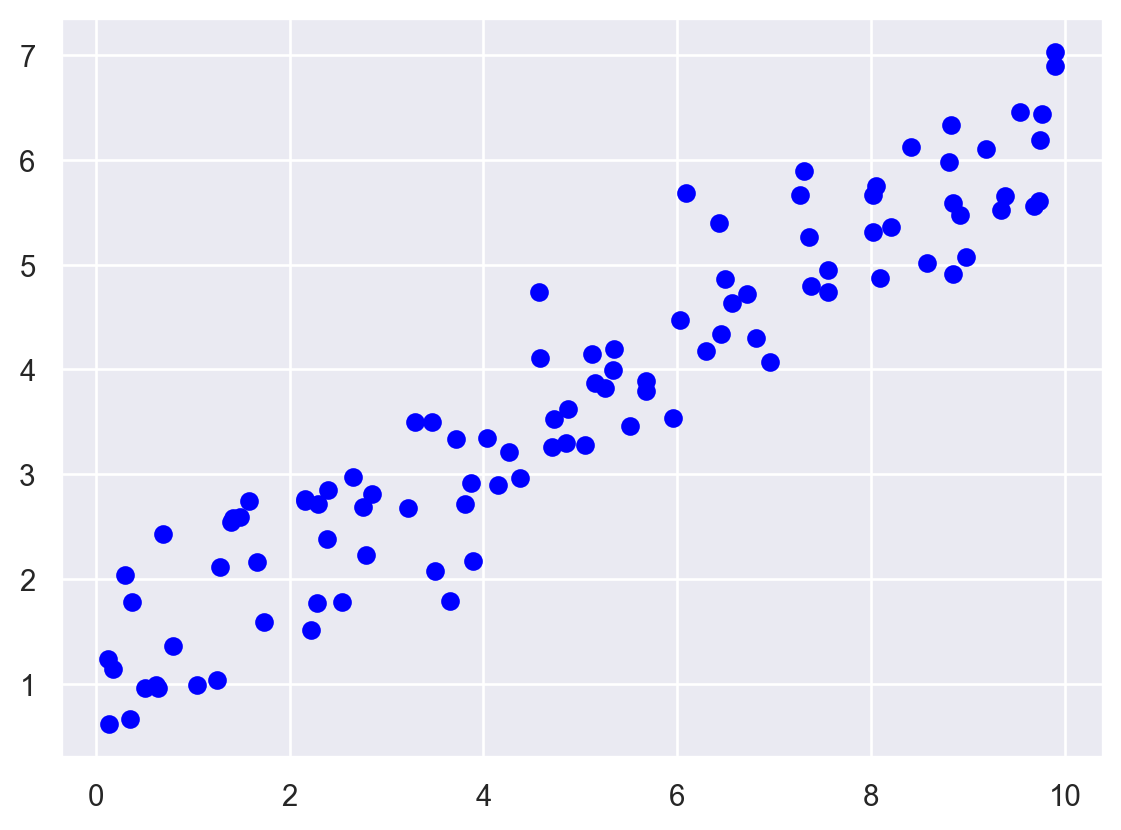
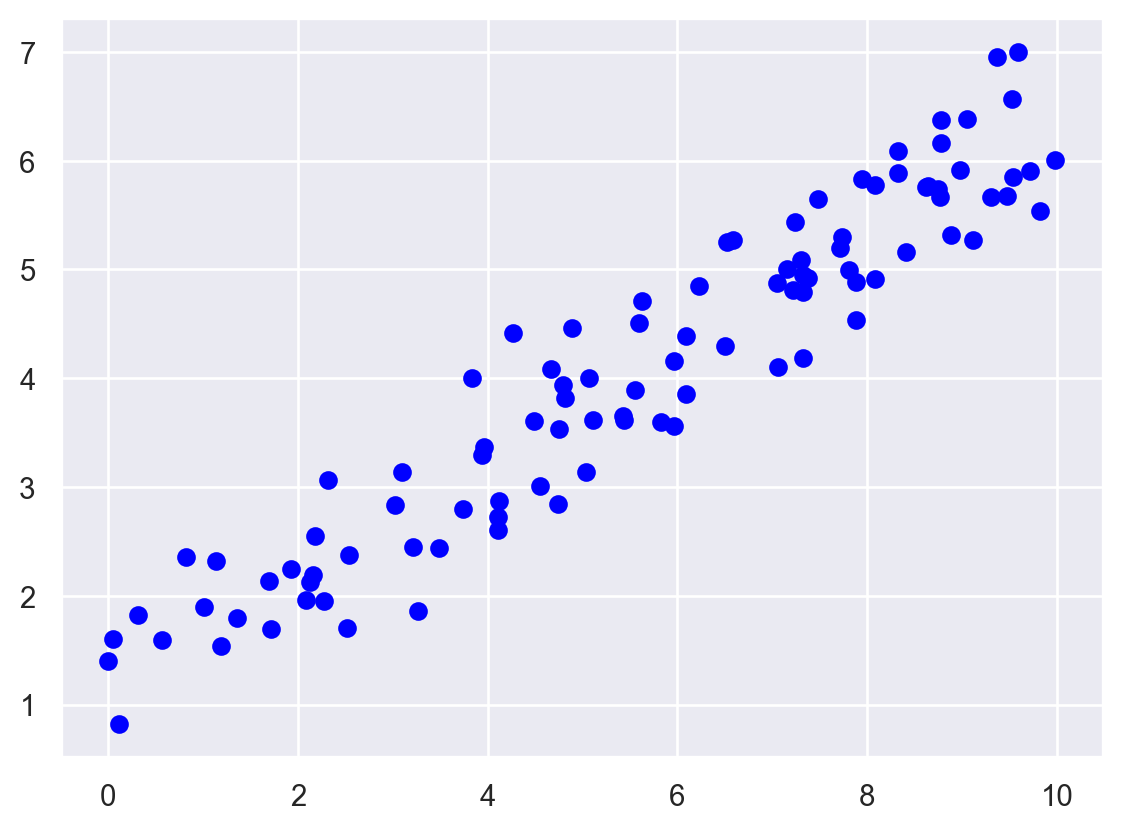
add line numbers to code blocks in new blog post"
"

a
asd

diff --git a/docs/posts/2024-09-30-conditional-probs-partial-evals/index.html b/docs/posts/2024-09-30-conditional-probs-partial-evals/index.html
@@ -277,37 +277,29 @@ window.Quarto = {
 L(\beta_0, \beta_1 ; x) &amp;= \prod_{i = 1}^n P(y_i) \\
 &amp;= \prod_{i = 1}^n \frac{1}{\sqrt{2 \pi \cdot0.52^2}} e^{-\frac{(y_i - (\beta_0 + \beta_1 x_i))^2}{2 \cdot 0.5^2}}
 \end{align}\]</span> Here’s a simulated data set from this model.</p>
-<div id="d547b59b" class="cell" data-execution_count="1">
-<div class="sourceCode cell-code" id="cb1"><pre class="sourceCode python code-with-copy"><code class="sourceCode python"><span id="cb1-1"><a href="#cb1-1" aria-hidden="true" tabindex="-1"></a><span class="im">import</span> numpy <span class="im">as</span> np </span>
-<span id="cb1-2"><a href="#cb1-2" aria-hidden="true" tabindex="-1"></a><span class="im">import</span> matplotlib.pyplot <span class="im">as</span> plt</span>
-<span id="cb1-3"><a href="#cb1-3" aria-hidden="true" tabindex="-1"></a><span class="im">import</span> seaborn <span class="im">as</span> sns </span>
-<span id="cb1-4"><a href="#cb1-4" aria-hidden="true" tabindex="-1"></a><span class="im">import</span> scipy <span class="im">as</span> sp</span>
-<span id="cb1-5"><a href="#cb1-5" aria-hidden="true" tabindex="-1"></a></span>
-<span id="cb1-6"><a href="#cb1-6" aria-hidden="true" tabindex="-1"></a>sns.<span class="bu">set</span>(palette<span class="op">=</span> <span class="st">'dark'</span>)</span></code><button title="Copy to Clipboard" class="code-copy-button"><i class="bi"></i></button></pre></div>
+<div id="d3791362" class="cell" data-execution_count="2">
+<div class="sourceCode cell-code" id="cb1"><pre class="sourceCode python code-with-copy"><code class="sourceCode python"><span id="cb1-1"><a href="#cb1-1" aria-hidden="true" tabindex="-1"></a><span class="co"># parameter values </span></span>
+<span id="cb1-2"><a href="#cb1-2" aria-hidden="true" tabindex="-1"></a>beta0 <span class="op">=</span> <span class="fl">1.2</span></span>
+<span id="cb1-3"><a href="#cb1-3" aria-hidden="true" tabindex="-1"></a>beta1 <span class="op">=</span> <span class="fl">0.5</span></span>
+<span id="cb1-4"><a href="#cb1-4" aria-hidden="true" tabindex="-1"></a></span>
+<span id="cb1-5"><a href="#cb1-5" aria-hidden="true" tabindex="-1"></a><span class="co"># random x values</span></span>
+<span id="cb1-6"><a href="#cb1-6" aria-hidden="true" tabindex="-1"></a>x <span class="op">=</span> np.random.uniform(</span>
+<span id="cb1-7"><a href="#cb1-7" aria-hidden="true" tabindex="-1"></a>    low <span class="op">=</span> <span class="fl">0.0</span>, </span>
+<span id="cb1-8"><a href="#cb1-8" aria-hidden="true" tabindex="-1"></a>    high <span class="op">=</span> <span class="fl">10.0</span>,</span>
+<span id="cb1-9"><a href="#cb1-9" aria-hidden="true" tabindex="-1"></a>    size <span class="op">=</span> <span class="dv">100</span>,</span>
+<span id="cb1-10"><a href="#cb1-10" aria-hidden="true" tabindex="-1"></a>    )</span>
+<span id="cb1-11"><a href="#cb1-11" aria-hidden="true" tabindex="-1"></a><span class="co"># evaluate mean</span></span>
+<span id="cb1-12"><a href="#cb1-12" aria-hidden="true" tabindex="-1"></a>mu <span class="op">=</span> beta0 <span class="op">+</span> beta1<span class="op">*</span>x</span>
+<span id="cb1-13"><a href="#cb1-13" aria-hidden="true" tabindex="-1"></a><span class="co"># simulate y values </span></span>
+<span id="cb1-14"><a href="#cb1-14" aria-hidden="true" tabindex="-1"></a>y <span class="op">=</span> np.random.normal(</span>
+<span id="cb1-15"><a href="#cb1-15" aria-hidden="true" tabindex="-1"></a>    loc <span class="op">=</span> mu,</span>
+<span id="cb1-16"><a href="#cb1-16" aria-hidden="true" tabindex="-1"></a>    scale <span class="op">=</span> <span class="fl">0.5</span>, </span>
+<span id="cb1-17"><a href="#cb1-17" aria-hidden="true" tabindex="-1"></a>    size <span class="op">=</span> <span class="dv">100</span></span>
+<span id="cb1-18"><a href="#cb1-18" aria-hidden="true" tabindex="-1"></a>    )</span></code><button title="Copy to Clipboard" class="code-copy-button"><i class="bi"></i></button></pre></div>
 </div>
-<div id="9b86002a" class="cell" data-execution_count="2">
-<div class="sourceCode cell-code" id="cb2"><pre class="sourceCode python code-with-copy"><code class="sourceCode python"><span id="cb2-1"><a href="#cb2-1" aria-hidden="true" tabindex="-1"></a><span class="co"># parameter values </span></span>
-<span id="cb2-2"><a href="#cb2-2" aria-hidden="true" tabindex="-1"></a>beta0 <span class="op">=</span> <span class="fl">1.2</span></span>
-<span id="cb2-3"><a href="#cb2-3" aria-hidden="true" tabindex="-1"></a>beta1 <span class="op">=</span> <span class="fl">0.5</span></span>
-<span id="cb2-4"><a href="#cb2-4" aria-hidden="true" tabindex="-1"></a></span>
-<span id="cb2-5"><a href="#cb2-5" aria-hidden="true" tabindex="-1"></a><span class="co"># random x values</span></span>
-<span id="cb2-6"><a href="#cb2-6" aria-hidden="true" tabindex="-1"></a>x <span class="op">=</span> np.random.uniform(</span>
-<span id="cb2-7"><a href="#cb2-7" aria-hidden="true" tabindex="-1"></a>    low <span class="op">=</span> <span class="fl">0.0</span>, </span>
-<span id="cb2-8"><a href="#cb2-8" aria-hidden="true" tabindex="-1"></a>    high <span class="op">=</span> <span class="fl">10.0</span>,</span>
-<span id="cb2-9"><a href="#cb2-9" aria-hidden="true" tabindex="-1"></a>    size <span class="op">=</span> <span class="dv">100</span>,</span>
-<span id="cb2-10"><a href="#cb2-10" aria-hidden="true" tabindex="-1"></a>    )</span>
-<span id="cb2-11"><a href="#cb2-11" aria-hidden="true" tabindex="-1"></a><span class="co"># evaluate mean</span></span>
-<span id="cb2-12"><a href="#cb2-12" aria-hidden="true" tabindex="-1"></a>mu <span class="op">=</span> beta0 <span class="op">+</span> beta1<span class="op">*</span>x</span>
-<span id="cb2-13"><a href="#cb2-13" aria-hidden="true" tabindex="-1"></a><span class="co"># simulate y values </span></span>
-<span id="cb2-14"><a href="#cb2-14" aria-hidden="true" tabindex="-1"></a>y <span class="op">=</span> np.random.normal(</span>
-<span id="cb2-15"><a href="#cb2-15" aria-hidden="true" tabindex="-1"></a>    loc <span class="op">=</span> mu,</span>
-<span id="cb2-16"><a href="#cb2-16" aria-hidden="true" tabindex="-1"></a>    scale <span class="op">=</span> <span class="fl">0.5</span>, </span>
-<span id="cb2-17"><a href="#cb2-17" aria-hidden="true" tabindex="-1"></a>    size <span class="op">=</span> <span class="dv">100</span></span>
-<span id="cb2-18"><a href="#cb2-18" aria-hidden="true" tabindex="-1"></a>    )</span></code><button title="Copy to Clipboard" class="code-copy-button"><i class="bi"></i></button></pre></div>
-</div>
-<div id="195f6c97" class="cell" data-execution_count="3">
-<div class="sourceCode cell-code" id="cb3"><pre class="sourceCode python code-with-copy"><code class="sourceCode python"><span id="cb3-1"><a href="#cb3-1" aria-hidden="true" tabindex="-1"></a><span class="co"># Scatter plot of the data</span></span>
-<span id="cb3-2"><a href="#cb3-2" aria-hidden="true" tabindex="-1"></a>plt.scatter(x, y, label<span class="op">=</span><span class="st">"Data points"</span>, color<span class="op">=</span><span class="st">'blue'</span>)</span></code><button title="Copy to Clipboard" class="code-copy-button"><i class="bi"></i></button></pre></div>
+<div id="a923d60b" class="cell" data-execution_count="3">
+<div class="sourceCode cell-code" id="cb2"><pre class="sourceCode python code-with-copy"><code class="sourceCode python"><span id="cb2-1"><a href="#cb2-1" aria-hidden="true" tabindex="-1"></a><span class="co"># Scatter plot of the data</span></span>
+<span id="cb2-2"><a href="#cb2-2" aria-hidden="true" tabindex="-1"></a>plt.scatter(x, y, label<span class="op">=</span><span class="st">"Data points"</span>, color<span class="op">=</span><span class="st">'blue'</span>)</span></code><button title="Copy to Clipboard" class="code-copy-button"><i class="bi"></i></button></pre></div>
 <div class="cell-output cell-output-display">
 <div>
 <figure class="figure">
@@ -321,24 +313,24 @@ L(\beta_0, \beta_1 ; x) &amp;= \prod_{i = 1}^n P(y_i) \\
 <h2 class="anchored" data-anchor-id="partial-function-evaluations">Partial Function Evaluations</h2>
 <p>In Python, partial function evaluation is a feature provided by <code>functools</code> package with the <code>partial</code> function. It allows you to take a function and fix some of its arguments, returning a new function that takes fewer arguments. The similarity to conditional probabilities lies in this idea of fixing known inputs. This is a nice feature of Python - we can pass around functions as first class objects (an entity that can be dynamically created, destroyed, passed to a function, returned as a value, and have all the rights as other variables in the programming language have).</p>
 <p>Let’s look at an example.</p>
-<div id="1b769118" class="cell" data-execution_count="4">
-<div class="sourceCode cell-code" id="cb4"><pre class="sourceCode python code-with-copy"><code class="sourceCode python"><span id="cb4-1"><a href="#cb4-1" aria-hidden="true" tabindex="-1"></a><span class="im">from</span> functools <span class="im">import</span> partial </span></code><button title="Copy to Clipboard" class="code-copy-button"><i class="bi"></i></button></pre></div>
+<div id="140a2905" class="cell" data-execution_count="4">
+<div class="sourceCode cell-code" id="cb3"><pre class="sourceCode python code-with-copy"><code class="sourceCode python"><span id="cb3-1"><a href="#cb3-1" aria-hidden="true" tabindex="-1"></a><span class="im">from</span> functools <span class="im">import</span> partial </span></code><button title="Copy to Clipboard" class="code-copy-button"><i class="bi"></i></button></pre></div>
 </div>
-<div id="550b2621" class="cell" data-execution_count="5">
-<div class="sourceCode cell-code" id="cb5"><pre class="sourceCode python code-with-copy"><code class="sourceCode python"><span id="cb5-1"><a href="#cb5-1" aria-hidden="true" tabindex="-1"></a><span class="kw">def</span> my_function(a, b):</span>
-<span id="cb5-2"><a href="#cb5-2" aria-hidden="true" tabindex="-1"></a>    <span class="co">"""</span></span>
-<span id="cb5-3"><a href="#cb5-3" aria-hidden="true" tabindex="-1"></a><span class="co">    A function that takes two arguements and returns the product</span></span>
-<span id="cb5-4"><a href="#cb5-4" aria-hidden="true" tabindex="-1"></a><span class="co">    """</span></span>
-<span id="cb5-5"><a href="#cb5-5" aria-hidden="true" tabindex="-1"></a>    <span class="cf">return</span> a<span class="op">*</span>b</span></code><button title="Copy to Clipboard" class="code-copy-button"><i class="bi"></i></button></pre></div>
+<div id="2a6ca296" class="cell" data-execution_count="5">
+<div class="sourceCode cell-code" id="cb4"><pre class="sourceCode python code-with-copy"><code class="sourceCode python"><span id="cb4-1"><a href="#cb4-1" aria-hidden="true" tabindex="-1"></a><span class="kw">def</span> my_function(a, b):</span>
+<span id="cb4-2"><a href="#cb4-2" aria-hidden="true" tabindex="-1"></a>    <span class="co">"""</span></span>
+<span id="cb4-3"><a href="#cb4-3" aria-hidden="true" tabindex="-1"></a><span class="co">    A function that takes two arguements and returns the product</span></span>
+<span id="cb4-4"><a href="#cb4-4" aria-hidden="true" tabindex="-1"></a><span class="co">    """</span></span>
+<span id="cb4-5"><a href="#cb4-5" aria-hidden="true" tabindex="-1"></a>    <span class="cf">return</span> a<span class="op">*</span>b</span></code><button title="Copy to Clipboard" class="code-copy-button"><i class="bi"></i></button></pre></div>
 </div>
 <p>We can partially evaluate the function by “fixing” one of the parameters values to a specific value. For example, fix <code>a=2</code>.</p>
-<div id="430a7eda" class="cell" data-execution_count="6">
-<div class="sourceCode cell-code" id="cb6"><pre class="sourceCode python code-with-copy"><code class="sourceCode python"><span id="cb6-1"><a href="#cb6-1" aria-hidden="true" tabindex="-1"></a>multiply_by_2 <span class="op">=</span> partial(my_function, a <span class="op">=</span> <span class="dv">2</span>)</span>
-<span id="cb6-2"><a href="#cb6-2" aria-hidden="true" tabindex="-1"></a></span>
-<span id="cb6-3"><a href="#cb6-3" aria-hidden="true" tabindex="-1"></a><span class="bu">print</span>(multiply_by_2)                        <span class="co"># this returns a function</span></span>
-<span id="cb6-4"><a href="#cb6-4" aria-hidden="true" tabindex="-1"></a><span class="bu">print</span>(multiply_by_2(b <span class="op">=</span> <span class="dv">4</span>))                 <span class="co"># this returns 8</span></span></code><button title="Copy to Clipboard" class="code-copy-button"><i class="bi"></i></button></pre></div>
+<div id="23f5297e" class="cell" data-execution_count="6">
+<div class="sourceCode cell-code" id="cb5"><pre class="sourceCode python code-with-copy"><code class="sourceCode python"><span id="cb5-1"><a href="#cb5-1" aria-hidden="true" tabindex="-1"></a>multiply_by_2 <span class="op">=</span> partial(my_function, a <span class="op">=</span> <span class="dv">2</span>)</span>
+<span id="cb5-2"><a href="#cb5-2" aria-hidden="true" tabindex="-1"></a></span>
+<span id="cb5-3"><a href="#cb5-3" aria-hidden="true" tabindex="-1"></a><span class="bu">print</span>(multiply_by_2)                        <span class="co"># this returns a function</span></span>
+<span id="cb5-4"><a href="#cb5-4" aria-hidden="true" tabindex="-1"></a><span class="bu">print</span>(multiply_by_2(b <span class="op">=</span> <span class="dv">4</span>))                 <span class="co"># this returns 8</span></span></code><button title="Copy to Clipboard" class="code-copy-button"><i class="bi"></i></button></pre></div>
 <div class="cell-output cell-output-stdout">
-<pre><code>functools.partial(&lt;function my_function at 0x7f8dfaa133a0&gt;, a=2)
+<pre><code>functools.partial(&lt;function my_function at 0x1186877e0&gt;, a=2)
 8</code></pre>
 </div>
 </div>
@@ -352,29 +344,29 @@ L(\beta_0, \beta_1 ; x) &amp;= \prod_{i = 1}^n P(y_i) \\
 <section id="apply-it-to-our-model" class="level2">
 <h2 class="anchored" data-anchor-id="apply-it-to-our-model">Apply it to our model</h2>
 <p>Lets create the likelihood function of our model. I’m going to take advantage of the <code>logpdf</code> method of the normal distribution which ‘scipy’ has already implemented. It’s always good practice to allocate these computations to well tested and documented libraries so we avoid any algebraic mistakes in our code.</p>
-<div id="225f9a23" class="cell" data-execution_count="7">
-<div class="sourceCode cell-code" id="cb8"><pre class="sourceCode python code-with-copy"><code class="sourceCode python"><span id="cb8-1"><a href="#cb8-1" aria-hidden="true" tabindex="-1"></a><span class="kw">def</span> model_likelihood(beta0, beta1):</span>
-<span id="cb8-2"><a href="#cb8-2" aria-hidden="true" tabindex="-1"></a>    log_probs <span class="op">=</span> sp.stats.norm(</span>
-<span id="cb8-3"><a href="#cb8-3" aria-hidden="true" tabindex="-1"></a>        loc <span class="op">=</span> mu,           <span class="co"># model mean - computed as global variable earlier</span></span>
-<span id="cb8-4"><a href="#cb8-4" aria-hidden="true" tabindex="-1"></a>        scale <span class="op">=</span> <span class="fl">0.5</span>         <span class="co"># fixed variance</span></span>
-<span id="cb8-5"><a href="#cb8-5" aria-hidden="true" tabindex="-1"></a>        ).logpdf(y)         <span class="co"># log prob of observed random variables </span></span>
-<span id="cb8-6"><a href="#cb8-6" aria-hidden="true" tabindex="-1"></a>    <span class="cf">return</span> np.<span class="bu">sum</span>(log_probs)</span>
-<span id="cb8-7"><a href="#cb8-7" aria-hidden="true" tabindex="-1"></a></span>
-<span id="cb8-8"><a href="#cb8-8" aria-hidden="true" tabindex="-1"></a><span class="co"># test arbitrary values</span></span>
-<span id="cb8-9"><a href="#cb8-9" aria-hidden="true" tabindex="-1"></a><span class="bu">print</span>(<span class="ss">f"log-prob eval: </span><span class="sc">{</span>model_likelihood(beta0 <span class="op">=</span> <span class="fl">0.1</span>, beta1 <span class="op">=</span> <span class="fl">0.1</span>)<span class="sc">}</span><span class="ss">"</span>)</span></code><button title="Copy to Clipboard" class="code-copy-button"><i class="bi"></i></button></pre></div>
+<div id="66be01fb" class="cell" data-execution_count="7">
+<div class="sourceCode cell-code" id="cb7"><pre class="sourceCode python code-with-copy"><code class="sourceCode python"><span id="cb7-1"><a href="#cb7-1" aria-hidden="true" tabindex="-1"></a><span class="kw">def</span> model_likelihood(beta0, beta1):</span>
+<span id="cb7-2"><a href="#cb7-2" aria-hidden="true" tabindex="-1"></a>    log_probs <span class="op">=</span> sp.stats.norm(</span>
+<span id="cb7-3"><a href="#cb7-3" aria-hidden="true" tabindex="-1"></a>        loc <span class="op">=</span> mu,           <span class="co"># model mean - computed as global variable earlier</span></span>
+<span id="cb7-4"><a href="#cb7-4" aria-hidden="true" tabindex="-1"></a>        scale <span class="op">=</span> <span class="fl">0.5</span>         <span class="co"># fixed variance</span></span>
+<span id="cb7-5"><a href="#cb7-5" aria-hidden="true" tabindex="-1"></a>        ).logpdf(y)         <span class="co"># log prob of observed random variables </span></span>
+<span id="cb7-6"><a href="#cb7-6" aria-hidden="true" tabindex="-1"></a>    <span class="cf">return</span> np.<span class="bu">sum</span>(log_probs)</span>
+<span id="cb7-7"><a href="#cb7-7" aria-hidden="true" tabindex="-1"></a></span>
+<span id="cb7-8"><a href="#cb7-8" aria-hidden="true" tabindex="-1"></a><span class="co"># test arbitrary values</span></span>
+<span id="cb7-9"><a href="#cb7-9" aria-hidden="true" tabindex="-1"></a><span class="bu">print</span>(<span class="ss">f"log-prob eval: </span><span class="sc">{</span>model_likelihood(beta0 <span class="op">=</span> <span class="fl">0.1</span>, beta1 <span class="op">=</span> <span class="fl">0.1</span>)<span class="sc">}</span><span class="ss">"</span>)</span></code><button title="Copy to Clipboard" class="code-copy-button"><i class="bi"></i></button></pre></div>
 <div class="cell-output cell-output-stdout">
-<pre><code>log-prob eval: -79.26162770126624</code></pre>
+<pre><code>log-prob eval: -66.95622048686633</code></pre>
 </div>
 </div>
 <p>Now we can use the <code>partial</code> to get the conditional likelihood of <code>beta0</code> given <code>beta1</code>.</p>
-<div id="eef47370" class="cell" data-execution_count="8">
-<div class="sourceCode cell-code" id="cb10"><pre class="sourceCode python code-with-copy"><code class="sourceCode python"><span id="cb10-1"><a href="#cb10-1" aria-hidden="true" tabindex="-1"></a>conditional_likelihood <span class="op">=</span> partial(model_likelihood, beta1 <span class="op">=</span> <span class="fl">0.1</span>)</span>
-<span id="cb10-2"><a href="#cb10-2" aria-hidden="true" tabindex="-1"></a></span>
-<span id="cb10-3"><a href="#cb10-3" aria-hidden="true" tabindex="-1"></a><span class="bu">print</span>(<span class="ss">f"Conditional log-likelihood: </span><span class="sc">{</span>conditional_likelihood<span class="sc">}</span><span class="ss">"</span>)</span>
-<span id="cb10-4"><a href="#cb10-4" aria-hidden="true" tabindex="-1"></a><span class="bu">print</span>(<span class="ss">f"Check: </span><span class="sc">{</span>conditional_likelihood(beta0<span class="op">=</span> <span class="fl">0.1</span>)<span class="sc">}</span><span class="ss">"</span>)</span></code><button title="Copy to Clipboard" class="code-copy-button"><i class="bi"></i></button></pre></div>
+<div id="0ba3f354" class="cell" data-execution_count="8">
+<div class="sourceCode cell-code" id="cb9"><pre class="sourceCode python code-with-copy"><code class="sourceCode python"><span id="cb9-1"><a href="#cb9-1" aria-hidden="true" tabindex="-1"></a>conditional_likelihood <span class="op">=</span> partial(model_likelihood, beta1 <span class="op">=</span> <span class="fl">0.1</span>)</span>
+<span id="cb9-2"><a href="#cb9-2" aria-hidden="true" tabindex="-1"></a></span>
+<span id="cb9-3"><a href="#cb9-3" aria-hidden="true" tabindex="-1"></a><span class="bu">print</span>(<span class="ss">f"Conditional log-likelihood: </span><span class="sc">{</span>conditional_likelihood<span class="sc">}</span><span class="ss">"</span>)</span>
+<span id="cb9-4"><a href="#cb9-4" aria-hidden="true" tabindex="-1"></a><span class="bu">print</span>(<span class="ss">f"Check: </span><span class="sc">{</span>conditional_likelihood(beta0<span class="op">=</span> <span class="fl">0.1</span>)<span class="sc">}</span><span class="ss">"</span>)</span></code><button title="Copy to Clipboard" class="code-copy-button"><i class="bi"></i></button></pre></div>
 <div class="cell-output cell-output-stdout">
-<pre><code>Conditional log-likelihood: functools.partial(&lt;function model_likelihood at 0x7f8dfa994f70&gt;, beta1=0.1)
-Check: -79.26162770126624</code></pre>
+<pre><code>Conditional log-likelihood: functools.partial(&lt;function model_likelihood at 0x118687600&gt;, beta1=0.1)
+Check: -66.95622048686633</code></pre>
 </div>
 </div>
 <p>And they are the same as before! This mirrors how we compute conditional probabilities by progressively refining our estimate as more information becomes available. For example, if you found some information saying that <code>beta1</code> should be 0.5, you can fix that using this technique. All you need to do then is optimize the (log) likelihood for the other parameter.</p>
@@ -1009,7 +1001,7 @@ window.document.addEventListener("DOMContentLoaded", function (event) {
 </div>
   </div>
 </footer>
-<script>var lightboxQuarto = GLightbox({"descPosition":"bottom","closeEffect":"zoom","selector":".lightbox","loop":false,"openEffect":"zoom"});
+<script>var lightboxQuarto = GLightbox({"openEffect":"zoom","selector":".lightbox","loop":false,"closeEffect":"zoom","descPosition":"bottom"});
 (function() {
   let previousOnload = window.onload;
   window.onload = () => {

diff --git a/docs/index.html b/docs/index.html
@@ -194,7 +194,7 @@ pre > code.sourceCode > span > a:first-child::before { text-decoration: underlin
 </div>
   </div>
   <div class="about-contents"><div id="hero-heading">
-<div id="114d8543" class="cell" data-execution_count="1">
+<div id="c87235c9" class="cell" data-execution_count="1">
 <div class="sourceCode cell-code" id="cb1"><pre class="sourceCode python code-with-copy"><code class="sourceCode python"><span id="cb1-1"><a href="#cb1-1" aria-hidden="true" tabindex="-1"></a><span class="bu">print</span>(my_intro)</span></code><button title="Copy to Clipboard" class="code-copy-button"><i class="bi"></i></button></pre></div>
 </div>
 <p>Hi, I’m Alin! Welcome to my website. I will be using this site as a way to display some of my work and interests. You can find some of my projects, talks, and the occasional blog post about stuff I’ve found cool and thought was worth sharing.</p>

diff --git a/docs/posts.html b/docs/posts.html
@@ -243,7 +243,7 @@ window.Quarto = {
     </div>
 </div>
 <div class="list grid quarto-listing-cols-3">
-<div class="g-col-1" data-index="0" data-categories="probability,python" data-listing-date-sort="1727650800000" data-listing-file-modified-sort="1727717049963" data-listing-date-modified-sort="NaN" data-listing-reading-time-sort="7" data-listing-word-count-sort="1276">
+<div class="g-col-1" data-index="0" data-categories="probability,python" data-listing-date-sort="1727650800000" data-listing-file-modified-sort="1727721630988" data-listing-date-modified-sort="NaN" data-listing-reading-time-sort="7" data-listing-word-count-sort="1275">
 <a href="./posts/2024-09-30-conditional-probs-partial-evals/index.html" class="quarto-grid-link">
 <div class="quarto-grid-item card h-100 card-left">
 <p class="card-img-top">

diff --git a/docs/posts/2024-07-01-simulating-epidemics/index.html b/docs/posts/2024-07-01-simulating-epidemics/index.html
@@ -1202,7 +1202,7 @@ window.document.addEventListener("DOMContentLoaded", function (event) {
 </div>
   </div>
 </footer>
-<script>var lightboxQuarto = GLightbox({"closeEffect":"zoom","selector":".lightbox","loop":false,"openEffect":"zoom","descPosition":"bottom"});
+<script>var lightboxQuarto = GLightbox({"descPosition":"bottom","closeEffect":"zoom","selector":".lightbox","openEffect":"zoom","loop":false});
 (function() {
   let previousOnload = window.onload;
   window.onload = () => {
